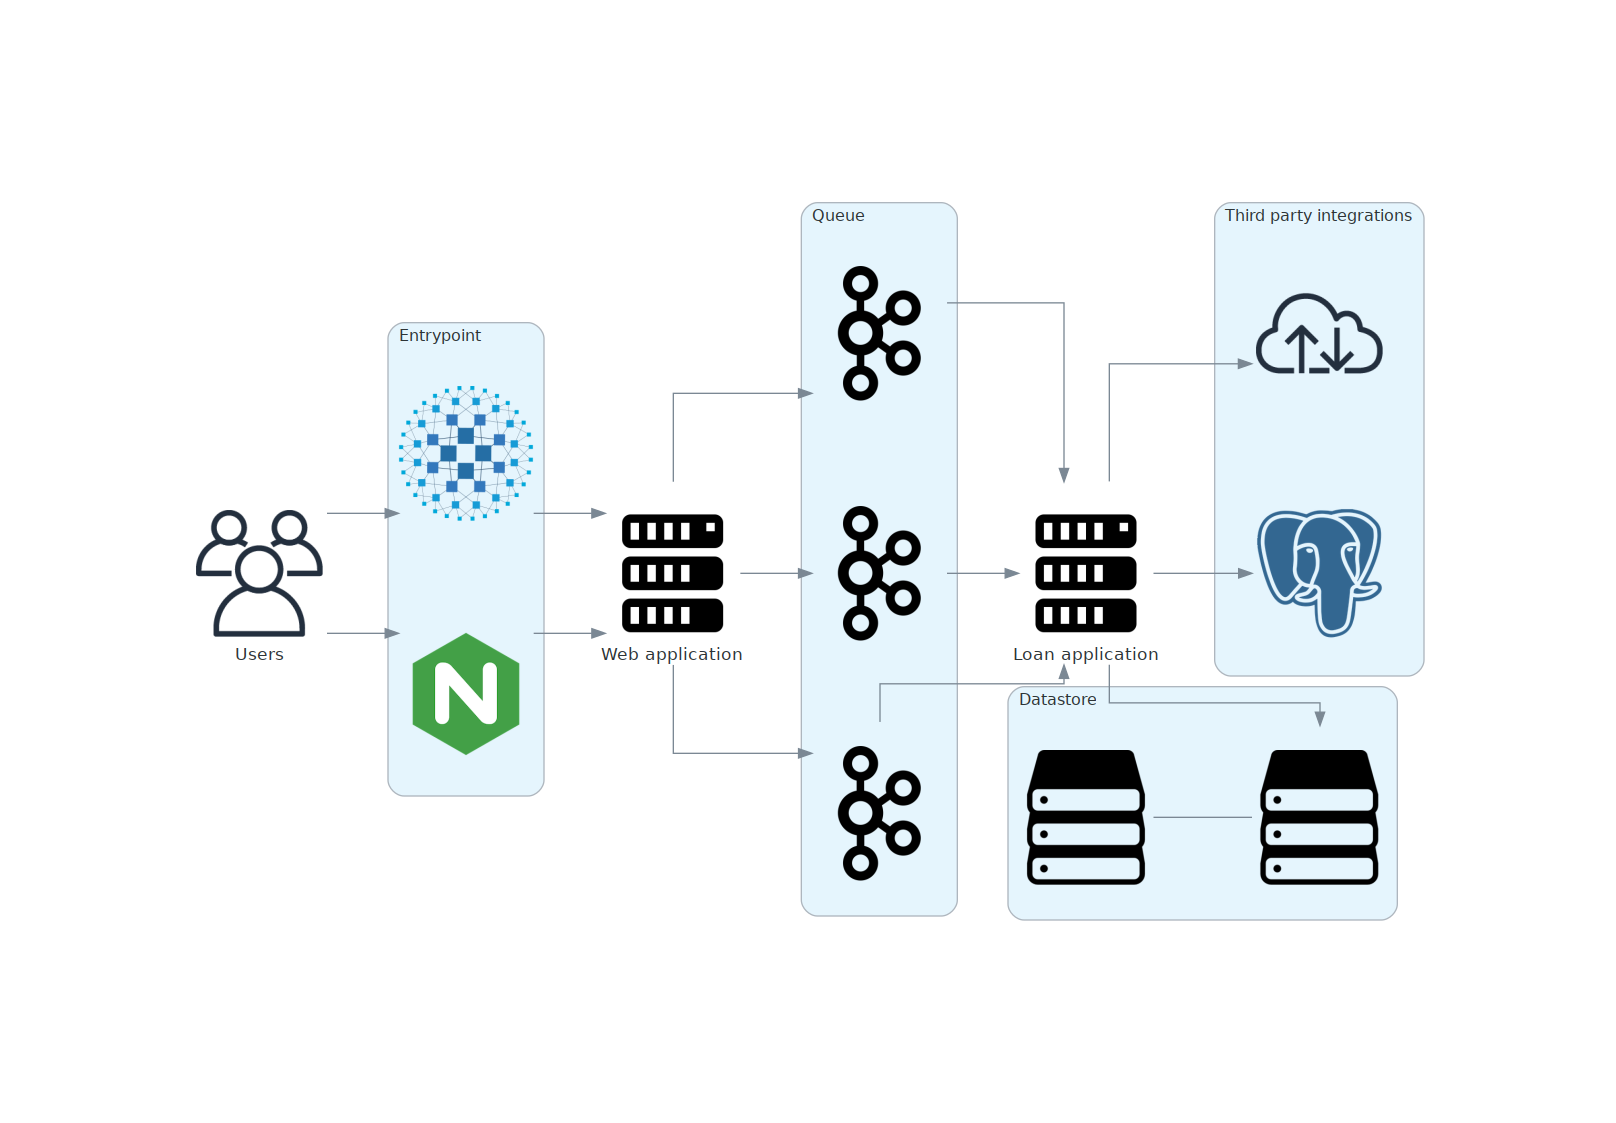
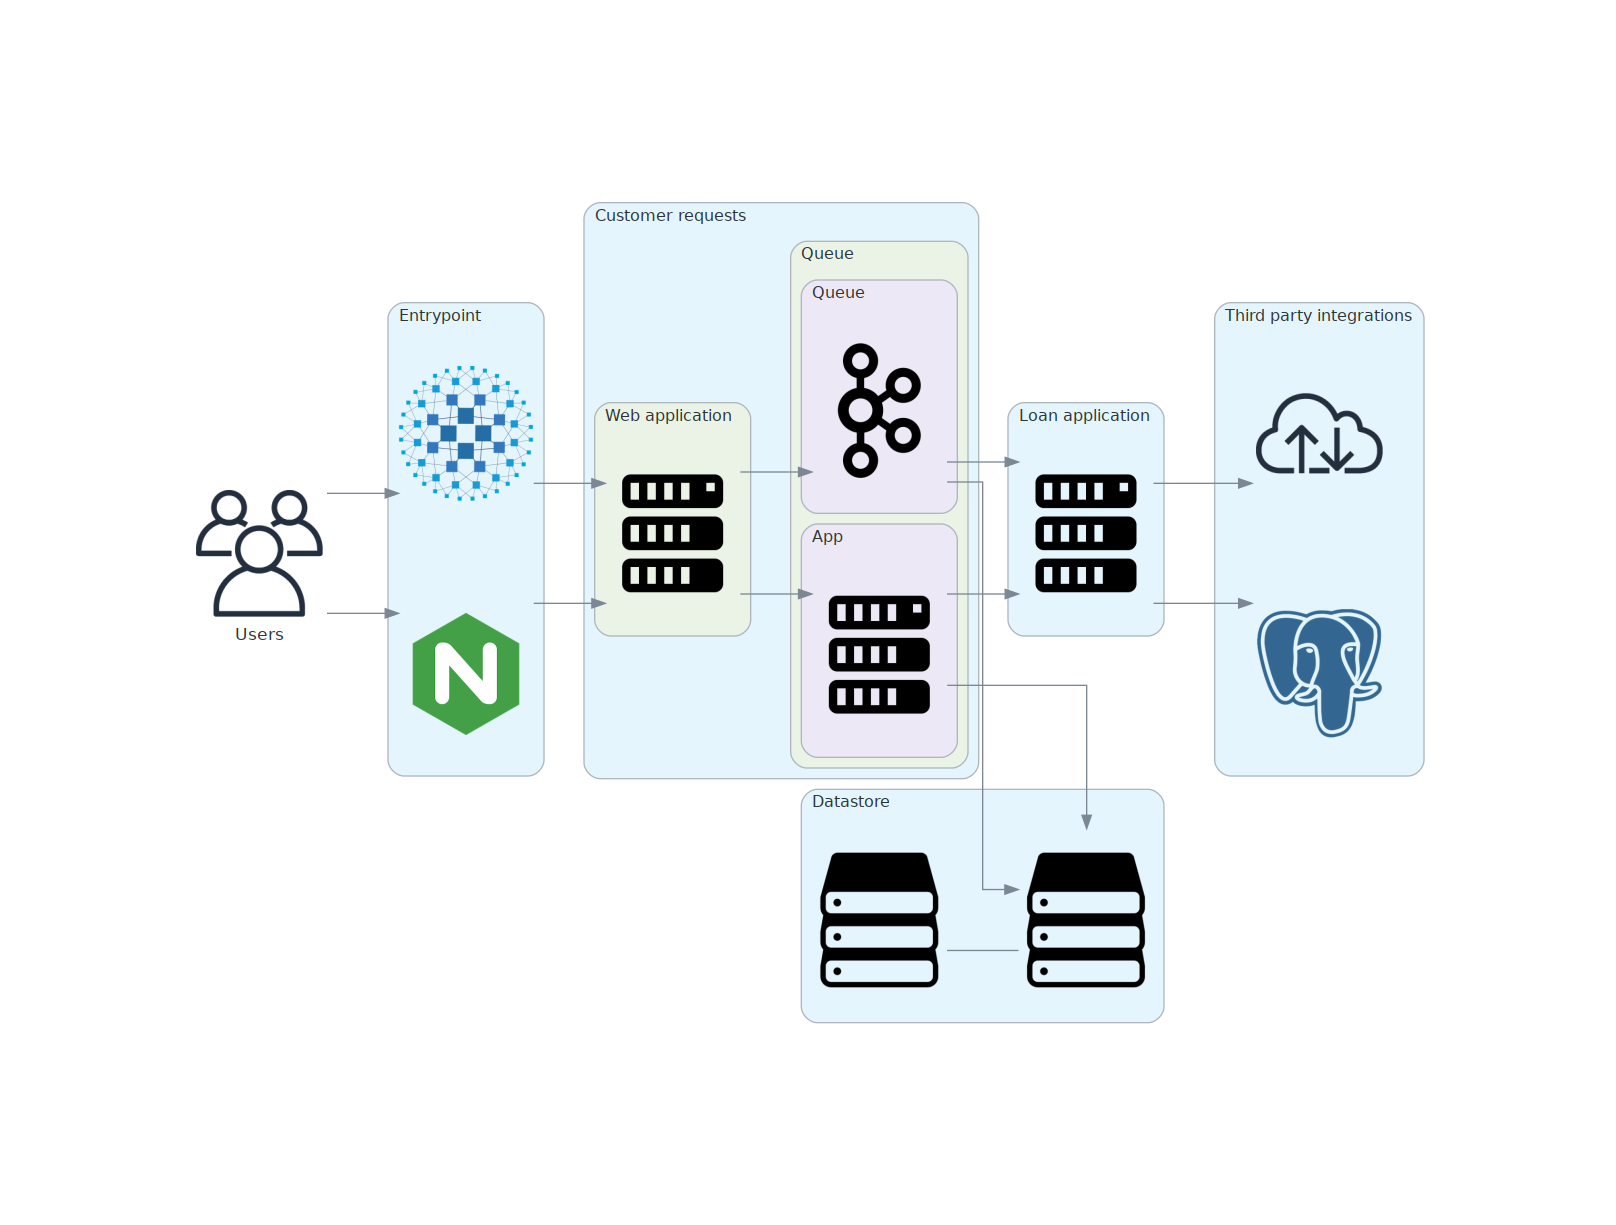
Diagrams

Changed region(s): [[0.2166, 0.1558, 0.8973, 0.8415], [0.7426, 0.1558, 0.8973, 0.4052], [0.1238, 0.4052, 0.2166, 0.5922]]

diff --git a/002.py b/002.py
@@ -10,20 +10,32 @@ from diagrams.onprem.queue import Kafka
 
 with Diagram(show=False):
     users = Users("Users")
-    web_app = Server("Web application")
-    application = Server("Loan application")
 
     with Cluster("Entrypoint"):
         entrypoint = [Haproxy(), Nginx()]
 
+    with Cluster("Loan application"):
+        application = Server()
+
     with Cluster("Third party integrations"):
         integrations = [Internet(), PostgreSQL()]
 
-    with Cluster("Queue"):
-        queue = [Kafka(), Kafka(), Kafka()]
+    with Cluster("Customer requests"):
+
+        with Cluster("Web application"):
+            web_app = Server()
+
+        with Cluster("Queue"):
+            with Cluster("Queue"):
+                queue = Kafka()
+
+            with Cluster("App"):
+                app = Server()
 
     with Cluster("Datastore"):
         datastore = Storage() - Storage()
 
     users >> entrypoint >> web_app >> queue >> application >> integrations
-    application >> datastore
+    web_app >> app >> datastore
+    app >> application
+    queue >> datastore
